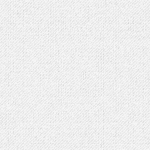
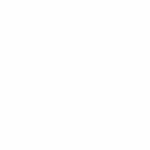
lighten up the textures

diff --git a/src/tweaks.less b/src/tweaks.less
@@ -122,7 +122,7 @@ body {
   padding: @defaultPad;
   margin-bottom: @defaultMargin;
   background-color: @bodyBackground;
-  background-image: url('../images/body-bg-texture-heavy.png');
+  background-image: url('../images/body-bg-texture-medium.png');
 }
 
 .toolitem {
@@ -352,7 +352,7 @@ body {
 .tiny-well {
   .well-border;
   background-color: fade(@bodyBackground, 90%);
-  background-image: url('../images/body-bg-texture-heavy.png');
+  background-image: url('../images/body-bg-texture-medium.png');
   min-width: 2em;
 }
 
